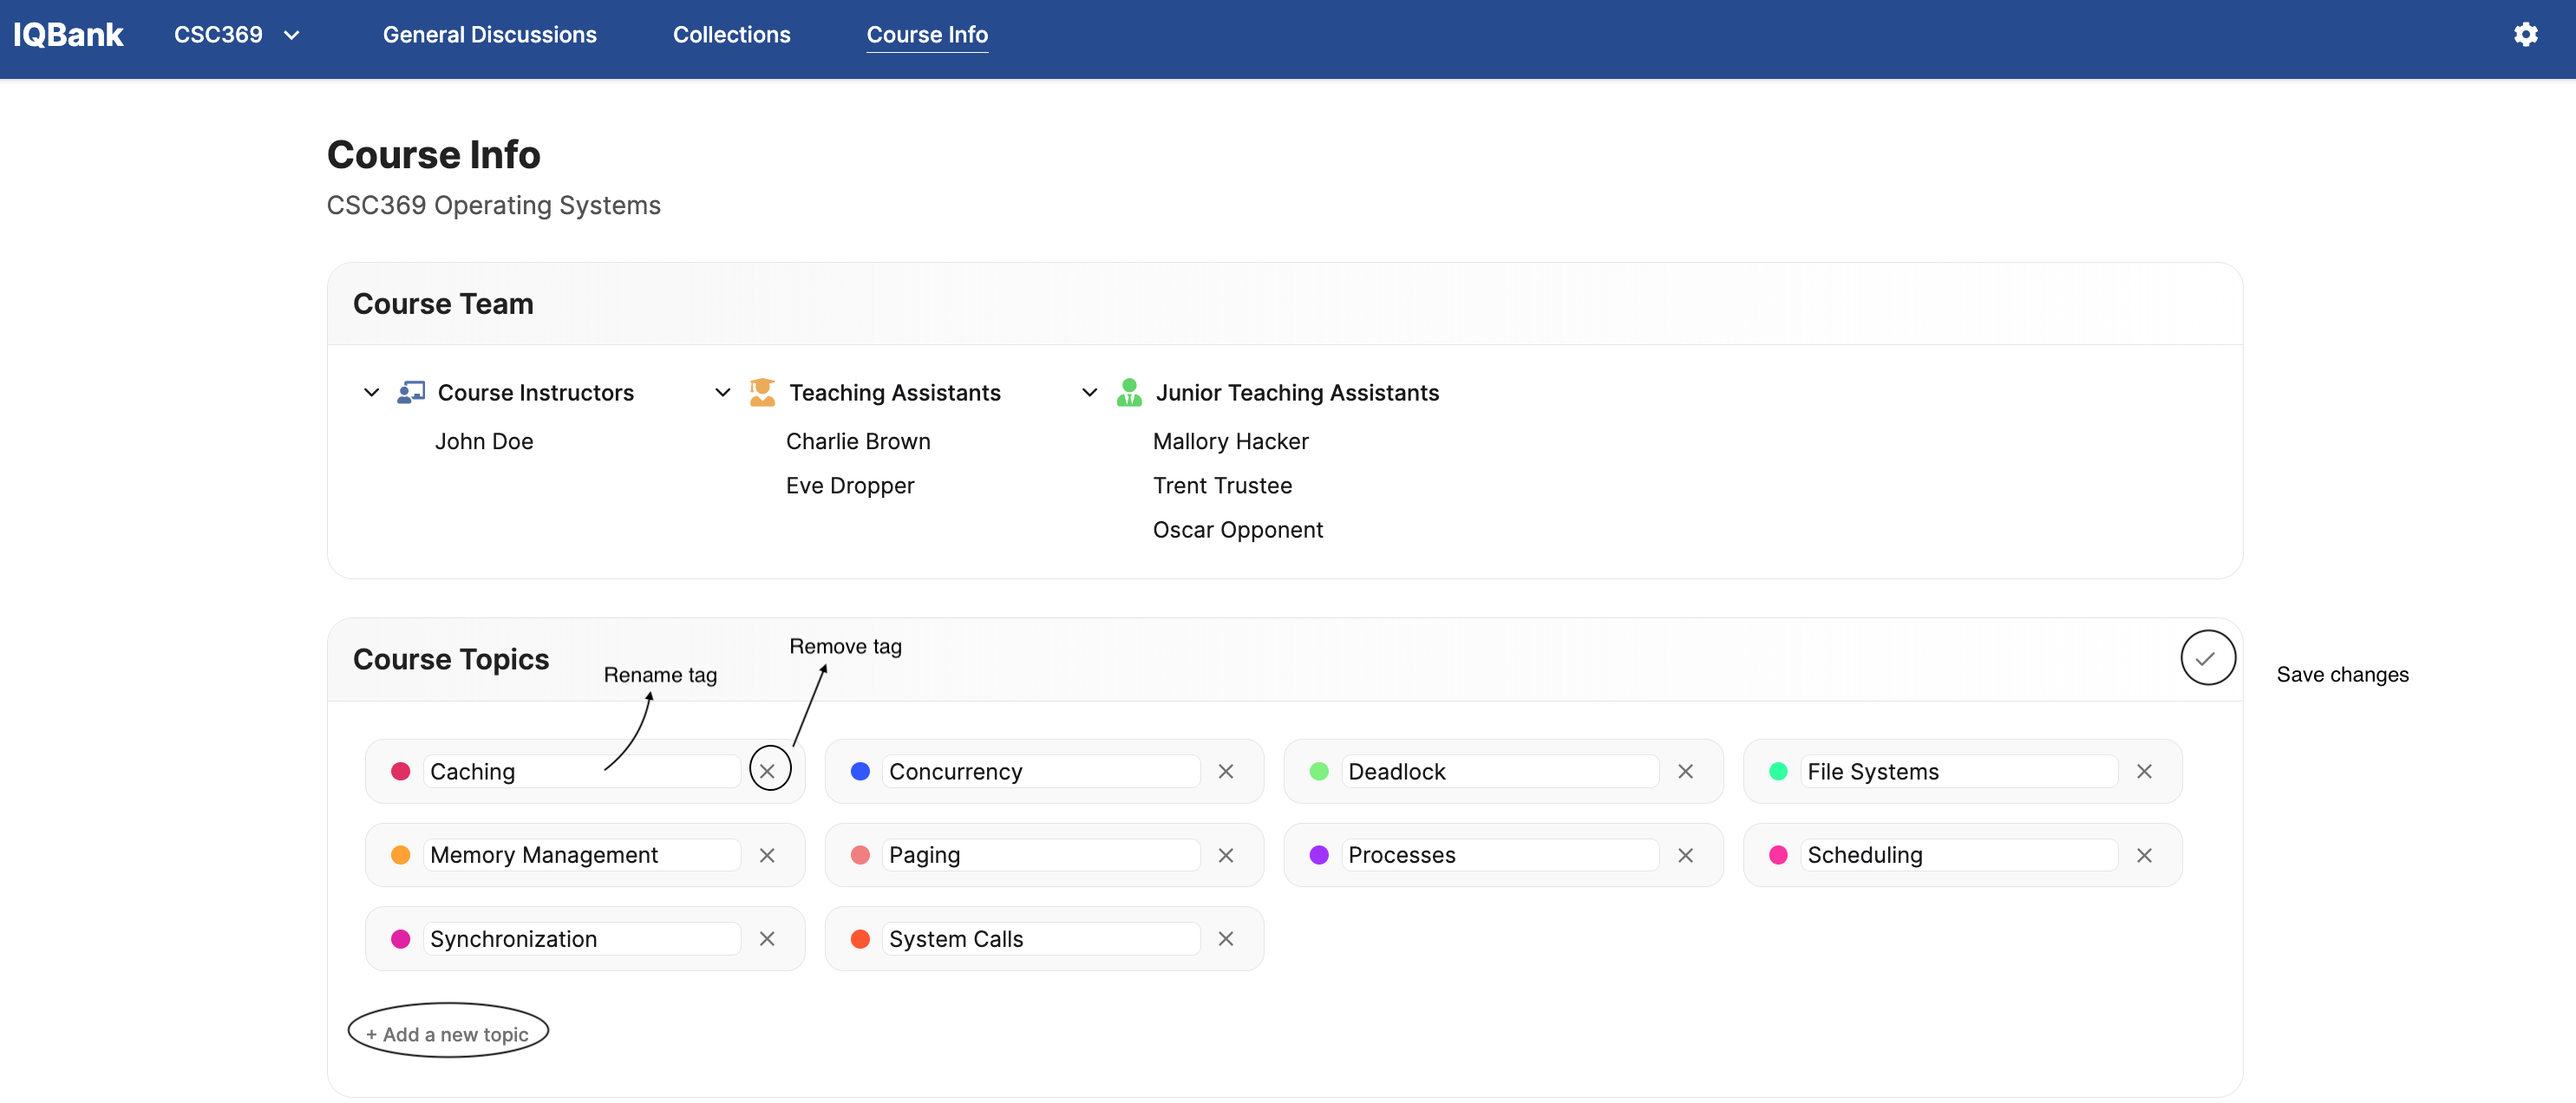
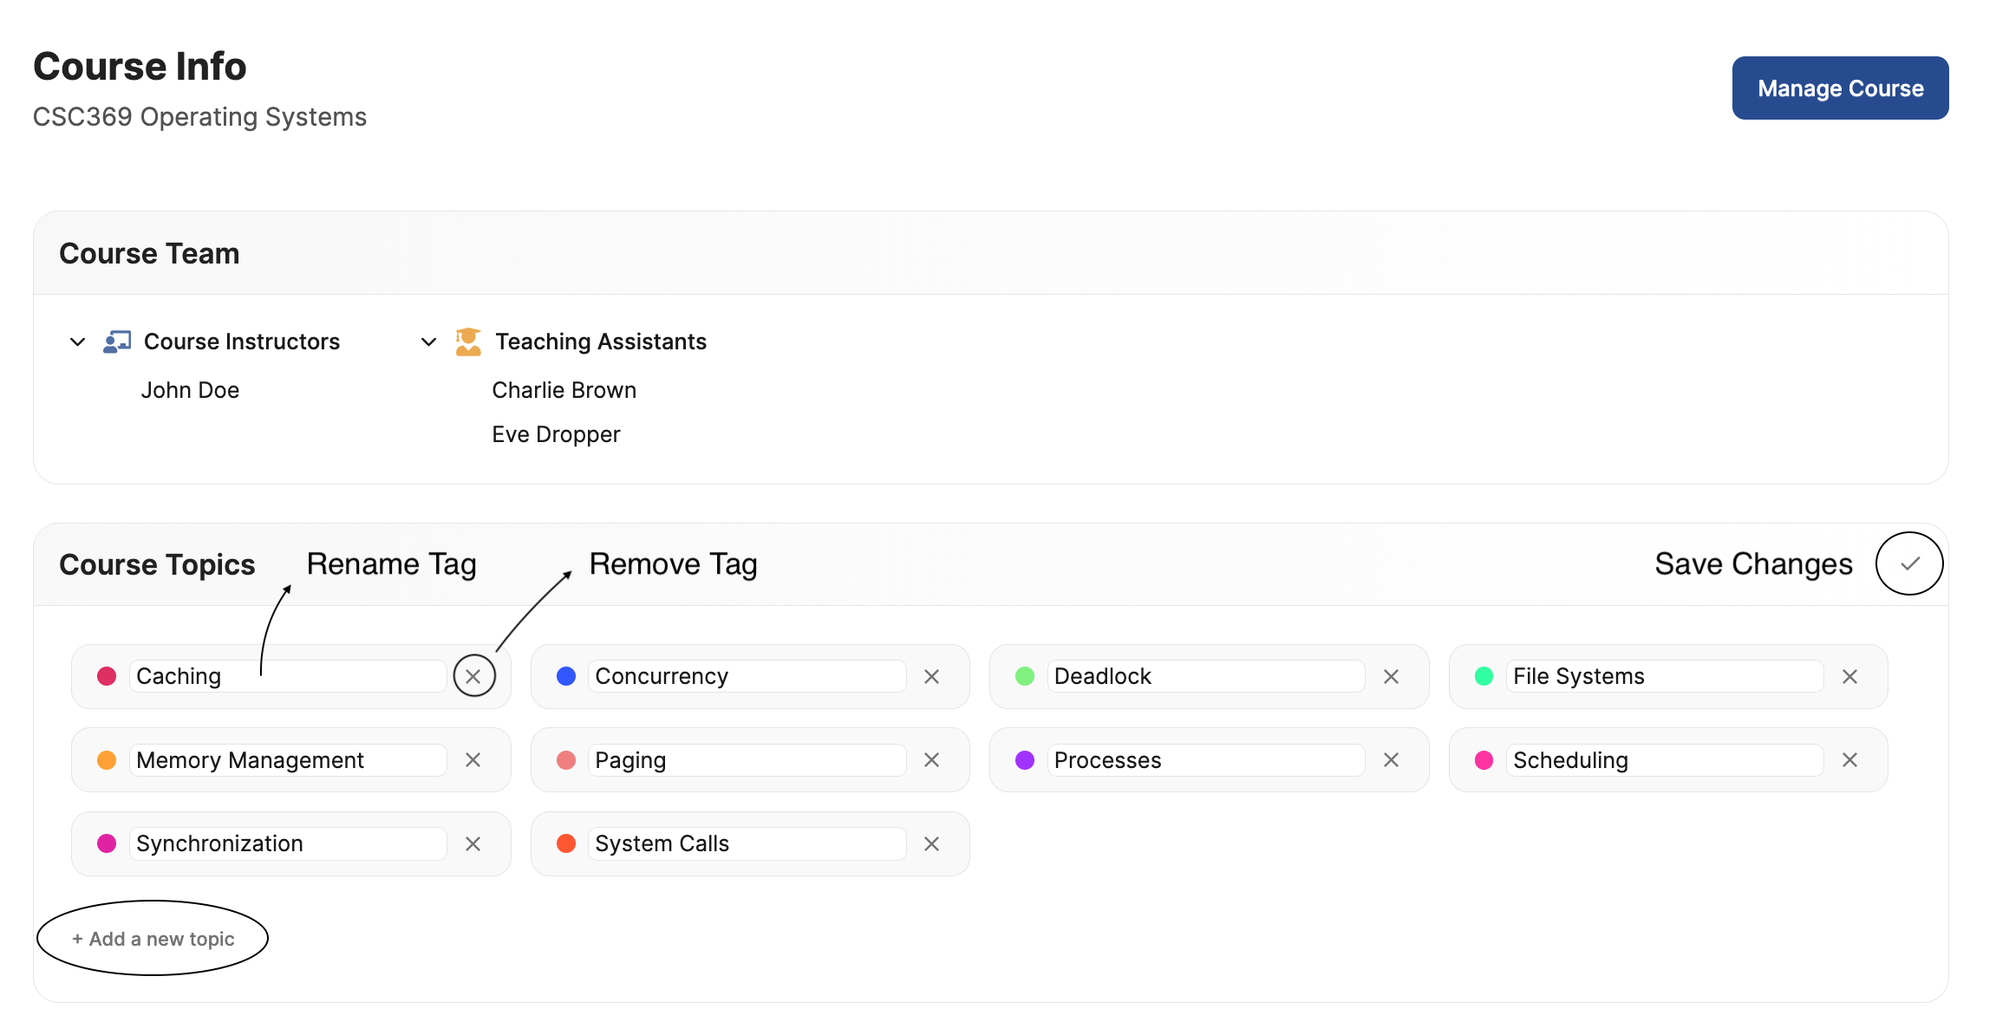
adding more pictures and descriptive content (#6)

diff --git a/_sass/custom/custom.scss b/_sass/custom/custom.scss
@@ -37,33 +37,3 @@
   text-align: center;
   font-style: italic;
 }
-
-// Make short pages extend to the bottom of the viewport.
-.main {
-  min-height: 100vh;
-  display: flex;
-  flex-direction: column;
-}
-
-.main-header {
-  position: relative;
-  z-index: 2;
-}
-
-.main-content-wrap {
-  display: flex;
-  flex: 1 0 auto;
-  flex-direction: column;
-  width: 100%;
-}
-
-.main-content {
-  display: flex;
-  flex: 1 1 auto;
-  flex-direction: column;
-  width: 100%;
-}
-
-.main-content > main {
-  flex: 1 0 auto;
-}

diff --git a/_sass/custom/setup.scss b/_sass/custom/setup.scss
@@ -1,3 +1,3 @@
+// This file is used to define global variables and settings for the project style.
 $body-font-family: "Inter", ui-sans-serif;
-
 $link-color: #016BCC

diff --git a/instructor-guide/upload-course-collections.md b/instructor-guide/upload-course-collections.md
@@ -1,19 +1,28 @@
 ---
 layout: default
-title: Upload New Course Collection
+title: Manage Course Collections
 parent: Instructor Guide
 nav_order: 4
 ---
-# Upload New Course Collection
+# Manage Course Collections
 
 {: .note-title }
 > Note:
 >
 > This feature is only available to course instructors.
 
-## Upload collection
+## Table of Contents
+- [Create a New Collection](#create-a-new-collection)
+  - [Upload Collection](#upload-collection)
+  - [Create Questions](#create-questions)
+  - [Review Creation](#review-creation)
+- [Edit Collection Details](#edit-collection-details)
 
-Create a new course collection by uploading a PDF file, then fill out the required **Title**, **Type**, **Year**, and **Term** fields. 
+## Create a New Collection
+
+### Upload Collection
+
+Create a new course collection by uploading a PDF file, then fill out the required descriptive fields: **Title**, **Type**, **Year**, and **Term**.
 
 Max file size: **5 MB**.
 
@@ -23,7 +32,7 @@ Max file size: **5 MB**.
 *Upload collection PDF*
 {: .guide-caption }
 
-## Create Questions
+### Create Questions
 
 After uploading the PDF and entering the collection details, press the **Continue to Create Questions** button.
 
@@ -39,21 +48,21 @@ The uploaded PDF would then appears on the left, while the **Question List** app
     ![While adding Question 1 to the new collection]({{ "/assets/images/instructor-guide/during-add-collection-question.png" | relative_url }})
     {: .guide-image .guide-image--medium }
 
-2. If the question contains multiple parts, select the **Add Subquestion**. For each subquestion, repeat step 1.
+2. If the question contains multiple parts, select the **Add Subquestion** action. For each subquestion, repeat step 1.
 
     ![Adding question 1 subquestion to new collection]({{ "/assets/images/instructor-guide/add-collection-subquestion.png" | relative_url }})
     {: .guide-image .guide-image--medium }
 
 3. Repeat steps 1 and 2 for each remaining question in the PDF.
 
-    Created questions appear in the **Question List**. If necessary, drag and drop the entries to change their order.
+    Created questions appear in **Question List**. If necessary, drag and drop the entries to change their order.
 
     After identifying and ordering all questions, select **Continue to Review**.
 
     ![Adding more questions to new collection]({{ "/assets/images/instructor-guide/final-add-collection-question.png" | relative_url }})
     {: .guide-image .guide-image--medium }
 
-## Review Creation
+### Review Creation
 Here, the details of the uploaded collection can be reviewed. 
 
 If further edits need to be made, press the **Back to Edit** button. 
@@ -66,4 +75,15 @@ When completed, a success dialog will appear. The new collection would now be di
 {: .guide-image .guide-image--medium }
 
 ![Upload collection success]({{ "/assets/images/instructor-guide/upload-collection-success.png" | relative_url }})
+{: .guide-image .guide-image--small }
+
+## Edit Collection Details
+
+After creating a collection, instructors can edit a collection's description details (the fields: **Title**, **Type**, **Year**, and **Term**). 
+
+Go to the **Collections** page (See [Using Collections]({{ "/using-iqbank/using-collections.html" | relative_url }})), and click on the **pencil icon** to edit these metadata fields. Then, press the **Update Collections** button to save changes.
+
+**NOTE:** This does not change the assigned questions already included in the collection.
+
+![Edit Collection Descriptive Fields]({{ "/assets/images/instructor-guide/edit-collection-descriptive-fields.png" | relative_url }})
 {: .guide-image .guide-image--small }

diff --git a/using-iqbank/using-discussions.md b/using-iqbank/using-discussions.md
@@ -8,9 +8,9 @@ nav_order: 2
 
 IQBank provides two types of discussion areas:
 
-- **Collection discussions** is intended for users to discuss the content and possible solutions of individual collection questions.
+- **Collection discussions** is intended for you to discuss the content and possible solutions of individual collection questions.
 
-- **General Discussions** is intended for users to engage in course-wide conversations that are not associated with a particular collection question (eg: Discussing course topics, study advice, etc).
+- **General Discussions** is intended for you to engage in course-wide conversations that are not associated with a particular collection question (eg: Discussing course topics, study advice, etc).
 
 ## Opening a Discussion Area
 
@@ -22,18 +22,18 @@ Open a collection question (see [Using Collections]({{ "/using-iqbank/using-coll
 
 To open a course’s **General Discussions** page, use either of the following options:
 
-- Select **Discussions** on the **Explore Courses** page.
+- Select the **Discussions** button displayed for courses on the **Explore Courses** page.
 - Select **General Discussions** in the course header.
 
 ## Creating Discussions, Threads, and Replies
 
-In the discussion areas, users can either start a new conversation or contribute to an existing one by creating discussions, threads or replies.
+In the discussion areas, you can either start a new conversation or contribute to an existing one by creating discussions, threads or replies.
 
 There are 2 available posting options:
 
-- **Post anonymously to classmates:** This option hides the author's identity from other students, while their the identity remains visible to course instructors.
+- **Post anonymously to classmates:** This option hides the author's identity from other students, while their identity remains visible to course instructors.
 
-- **Contains a potential answer:** This option hides thread content behind a spoiler block until the user chooses to reveal it.
+- **Contains a potential answer:** This option hides thread content behind a spoiler block until the viewer chooses to reveal it.
 
 Depending on whether either or both options are available during post creation, these options can be selected separately or together. The following example shows a collection discussion created with both options.
 
@@ -45,14 +45,14 @@ Upon posting, to classmates, the post appears under an anonymous name with its c
 ![An anonymous collection discussion post with its potential answer concealed]({{ "/assets/images/using-iqbank/new-discussion-before-reveal.png" | relative_url }})
 {: .guide-image .guide-image--medium }
 
-After a classmate selects **View Answer**, the content becomes visible, while the author’s identity remains hidden.
+After a classmate selects **View Answer**, the content becomes visible, while the author’s identity remains hidden to them.
 
 ![An anonymous collection discussion post after its potential answer is revealed]({{ "/assets/images/using-iqbank/new-discussion-after-reveal.png" | relative_url }})
 {: .guide-image .guide-image--medium }
 
 ## Browsing Conversations
 
-When browsing threads in either discussion area, users can:
+When browsing threads in either discussion area, you can:
 
 - Sort threads by **Most Likes**, **Most Recent**, or **Oldest**.
 - Like useful posts to help increase their visibility to other students and instructors.

diff --git a/README.MD b/README.MD
@@ -1,0 +1,49 @@
+# IQBank User Wiki
+
+This repository contains the IQBank user documentation site for students and instructors. 
+
+It is published as a Github Page static site and built with Jekyll site using the [Just the Docs](https://just-the-docs.com/) theme.
+
+## Repository Structure
+
+- [index.md](index.md) — Documentation home page
+- Content folders — markdown pages for the website’s content sections. This includes:
+    - [getting-started](getting-started)
+    - [account-management](account-management)
+    - [using-iqbank](using-iqbank)
+    - [instructor-guide](instructor-guide)
+    - [contact](contact)
+    - [faq](faq)
+- [assets](assets) — Folder containing static images. Paths are named based on which website section the image would belong to 
+- [_sass]( _sass ) — custom theme styling overrides
+- [_config.yml](_config.yml) — Jekyll configuration and theme settings
+
+## How to compile site locally
+
+Here are the instructions to run the site locally, to test any changes before deployment:
+
+**Mac-OS**
+
+1. Install Ruby (version needs to be `>= 3.0`). Normally, the Ruby that comes with the OS is not sufficient.
+```
+brew install ruby
+```
+
+2. Put the Homebrew installed Ruby in your PATH. Run this command in a terminal session (or add it to shell configuration file like `.zshrc`)
+
+```
+export PATH="/opt/homebrew/opt/ruby/bin:$PATH"
+```
+
+3. Clone this repository. Locate the `Gemfile.txt` file. Make a file called `Gemfile` with the contents located in the template. 
+
+4. In the repository root directory, with Ruby configured in your PATH, run:
+
+```
+bundle install
+bundle exec jekyll serve
+```
+
+The website should now be running locally at `http://127.0.0.1:4000`
+
+Note: Sometimes when you change files in `_sass` or need to clear stale website cache, try running `bundle exec jekyll clean` before the serve command.

diff --git a/account-management/change-password.md b/account-management/change-password.md
@@ -5,7 +5,7 @@ parent: Account Management
 nav_order: 4
 ---
 # Change Password
-You can change your account password by clicking on the **Gear icon** on the website header and click the **Change Password** toggle. After then, please follow the on screen instructions. Once completed, please log out of your current session and re-login using your new password.
+You can change your account password by clicking on the **Gear icon** on the website header and then clicking the **Change Password** toggle. After then, please follow the on screen instructions. Once completed, please log out of your current session and re-login using your new password.
 
 ![Change password toggle]({{ "/assets/images/account-management/change-password-toggle.png" | relative_url }})
 {: .guide-image .guide-image--medium }
@@ -13,8 +13,8 @@ You can change your account password by clicking on the **Gear icon** on the web
 *Select **Change Password** from the account settings dropdown menu.*
 {: .guide-caption }
 
-![Manage page visbility]({{ "/assets/images/account-management/change-password-success.png" | relative_url }})
+![Change password success]({{ "/assets/images/account-management/change-password-success.png" | relative_url }})
 {: .guide-image .guide-image--medium }
 
-*Enter your current password and a new password that meets the on-screen listed requirements. Success message will be displayed when process completed.*
+*Enter your current password and a new password that meets the on-screen listed requirements. A success message will be displayed when the process is completed.*
 {: .guide-caption }

diff --git a/instructor-guide/manage-student-enrollment.md b/instructor-guide/manage-student-enrollment.md
@@ -11,6 +11,14 @@ nav_order: 5
 >
 > This feature is only available to course instructors.
 
+## Table of Contents
+- [Bulk Enroll Users by CSV](#bulk-enroll-users-by-csv)
+  - [CSV Format](#csv-format)
+  - [Upload CSV](#upload-csv)
+  - [Upload Results](#upload-results)
+- [Individually Enrolling a User](#individually-enrolling-a-user)
+- [Managing Enrolled Users](#managing-enrolled-users)
+
 ## Bulk Enroll Users by CSV 
 
 The **Bulk Student Import** page allows instructors to enroll a list of users in a course using information provided in a CSV file. 
@@ -65,7 +73,7 @@ In the **Add User to Course** window, complete the following fields, then click 
 - **UTORid** (eg: `doejohn`)
 - **Email address** (eg: `john.doe@mail.utoronto.ca`)
 - **Course role** (one of `STUDENT`, `TA`, or `INSTRUCTOR`)
-- **(Optional) From Date and To Date**: The period (YYYY-MM-DD) the role is active for. Leave them blank for an enrollment with no end date.
+- **(Optional) From Date and To Date**: The period (YYYY-MM-DD) the role is active for. Leave these fields blank for an enrollment with no start and end date.
 - **Other constraints**:
     - Both the UTORid and the email must match the same existing IQBank account. If they do not, a message will display: *"No existing user matches that UTORid and email."*
     - Adding a student to a course does not create an IQBank account for them. Please see [Accessing IQBank]({{ "/getting-started/accessing-iqbank.html" | relative_url }}) for details on obtaining an account.

diff --git a/instructor-guide/manage-course-page.md b/instructor-guide/manage-course-page.md
@@ -11,11 +11,15 @@ has_children: true
 {: .note-title }
 > Note:
 >
-> The **Manage Course** page is visible only to course instructors.
+> This page is visible only to course instructors.
 
 The **Manage Course** page allows instructors to monitor student engagement, create collections, and manage course enrollment.
 
-Course topics are managed separately through the **Course Info** page. See [Managing Course Topics]({{ "/instructor-guide/manage-course-topics.html" | relative_url }}).
+Course topics are managed separately through the **Course Info** page. See [Manage Course Topics]({{ "/instructor-guide/manage-course-topics.html" | relative_url }}).
+
+## Table of Contents
+- [Opening the Manage Course Page](#opening-the-manage-course-page)
+- [Management Tools](#management-tools)
 
 ## Opening the Manage Course Page
 
@@ -36,4 +40,4 @@ Use the **Management Tools** panel to access the following features:
 
 - [Student Engagement]({{ "/instructor-guide/view-student-engagement.html" | relative_url }}): Monitor student activity and engagement.
 - [Upload Collections]({{ "/instructor-guide/upload-course-collections.html" | relative_url }}): Upload and configure collections.
-- [Managing User Enrollment]({{ "/instructor-guide/managing-student-enrollment.html" | relative_url }}): Bulk or individually enroll users.
+- [Manage User Enrollment]({{ "/instructor-guide/manage-student-enrollment.html" | relative_url }}): Bulk or individually enroll users.

diff --git a/index.md b/index.md
@@ -11,6 +11,6 @@ Welcome to the IQBank User Wiki! This page will help you learn how to use IQBank
 
 IQBank is a collaborative learning platform that brings students and instructors together to practise, discuss, and engage with course material in one centralized space. 
 
-Students can practise with a diverse repository of practice questions while discussing question content and solutions with peers and instructors to explore different problem-solving approaches, deepen their understanding of course material, and develop greater confidence in their understanding of the course.
+Students can use question repositories to practise different problem-solving approaches and discuss solutions with peers and instructors to build greater confidence in their understanding of the course material.
 
-Instructors can customize question repositories based on student needs, while reviewing and endorsing student responses to ensure the accuracy of peer-shared information and foster a reliable, collaborative learning environment.
+Instructors can customize question repositories based on student needs, and review student responses to ensure the accuracy of peer-shared information and foster a collaborative learning environment.

diff --git a/instructor-guide/view-student-engagement.md b/instructor-guide/view-student-engagement.md
@@ -14,7 +14,7 @@ nav_order: 3
 
 The **Student Engagement** page opens a dashboard for monitoring student activity and engagement in the course.
 
-Students can be filtered by Engagement Score (default selection), by Likes, or by Endorsements. For more information about endorsements, see [Endorsing Student Contributions]({{ "/instructor-guide/endorse-student-contributions.html" | relative_url }}).
+Students can be filtered by Engagement Score (default selection), by Likes, or by Endorsements. For more information about endorsements, see [Endorse Student Contributions]({{ "/instructor-guide/endorse-student-contributions.html" | relative_url }}).
 
 ![Student Engagement page]({{ "/assets/images/instructor-guide/student-engagement.png" | relative_url }})
 {: .guide-image .guide-image--medium }

diff --git a/account-management/visibility-setting.md b/account-management/visibility-setting.md
@@ -6,7 +6,7 @@ nav_order: 3
 ---
 
 # Manage visibility settings
-IQBank supports both light and dark display modes. By default, the display mode will be set to match your device’s system preferences. However, you can override the display mode by clicking on the **Gear icon** on the website header and click the **Light/Dark mode** toggle.
+IQBank supports both light and dark display modes. By default, the display mode will be set to match your device’s system preferences. However, you can override the display mode by clicking on the **Gear icon** on the website header and then clicking the **Light/Dark mode** toggle.
 
 ![Manage page visbility]({{ "/assets/images/account-management/manage-visibility-settings.png" | relative_url }})
 {: .guide-image .guide-image--medium }

diff --git a/contact/index.md b/contact/index.md
@@ -8,13 +8,13 @@ nav_order: 7
 
 For questions relating to course content on IQBank, students should contact their instructors. 
 
-## Technical and Account Support
+## Technical Support
 
-For login or other technical issues with the IQBank platform, students and instructors can contact [iqbank@cs.toronto.edu](mailto:iqbank@cs.toronto.edu). 
+For account support or resolving technical issues with the IQBank platform, students and instructors can contact [iqbank@cs.toronto.edu](mailto:iqbank@cs.toronto.edu). 
 
 In the email, please include the following details where applicable:
 
 - Your name and IQBank account email
-- The relevant university and course code 
+- The university name and course code 
 - A brief description of the issue
 - Any error messages you encountered
